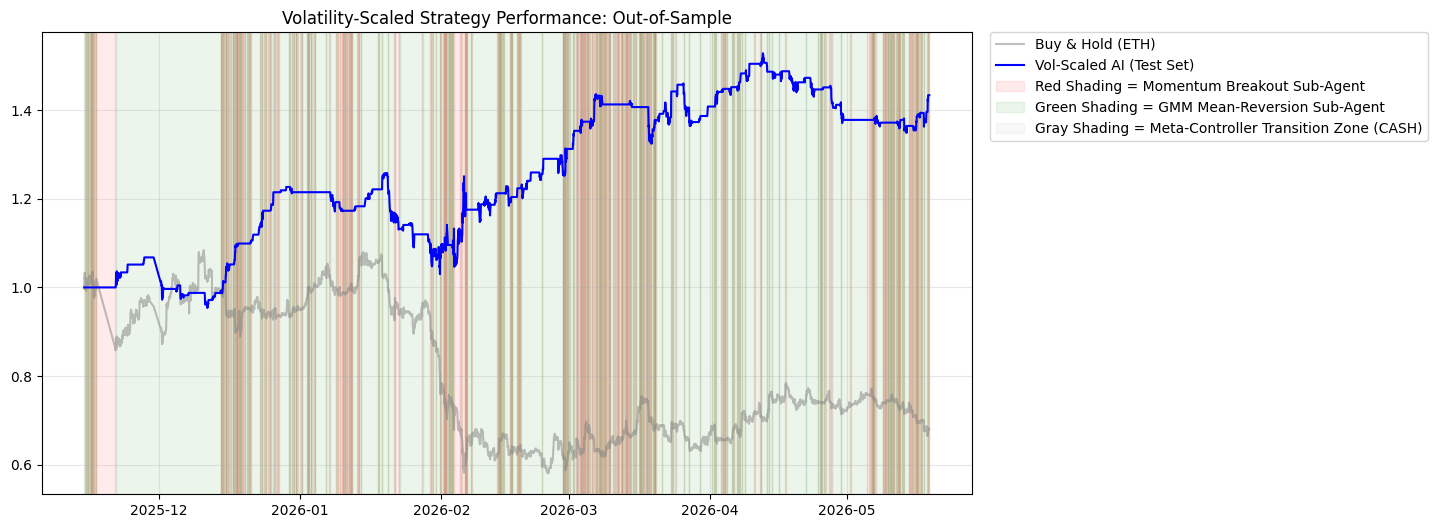
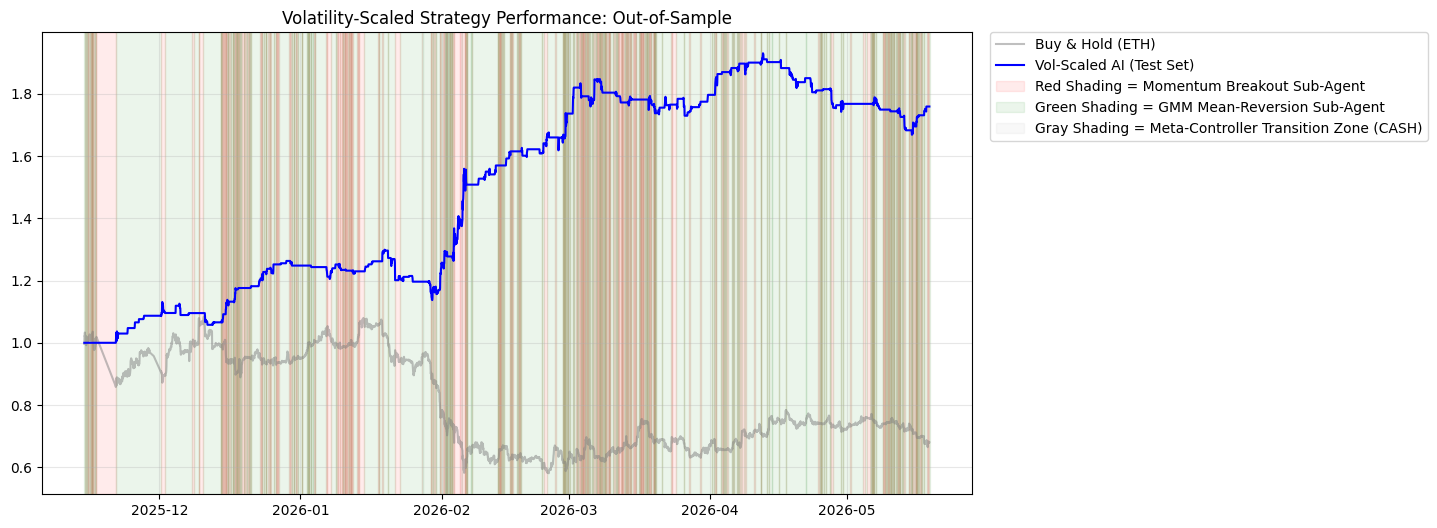
feat: implement ATR trailing stop-loss to clip tail-risk drawdowns

diff --git a/src/api.py b/src/api.py
@@ -79,6 +79,8 @@ class TradingState:
     def __init__(self):
         self.cooldown_until = datetime.min
         self.last_exit_time = datetime.min
+        self.extreme_price = 0.0
+        self.entry_atr = 0.0
 
 current_state = TradingState()
 
@@ -251,6 +253,9 @@ class LiveExecutionPayload(BaseModel):
     forecasted_vol: float
     prob_high_vol: float
     hurst: float
+    atr: float
+    high: float
+    low: float
     rolling_max: float
     rolling_min: float
     gmm_z_score: float
@@ -305,6 +310,7 @@ def execute_live_stream_trade(payload: LiveExecutionPayload):
         gmm_z_sell      = best_params.get('gmm_z_sell', 0.5)
         cooldown_hours  = best_params.get('cooldown_hours', 3)
         hurst_threshold = best_params.get('hurst_threshold', 0.45)
+        atr_sl_mult     = best_params.get('atr_sl_mult', 2.5)
 
         # Get current position and size from database
         db_path = get_db_path()
@@ -322,49 +328,84 @@ def execute_live_stream_trade(payload: LiveExecutionPayload):
         
         conn.close()
 
-        # Gate 3: Hierarchical Execution Routing Logic
-        rolling_mean = sum(payload.closes[-24:]) / 24
-        
-        # Volatility Shock Meta-Controller Bypass
-        vol_shock = payload.vol_24h > (payload.vol_168h * best_params.get('vol_shock_mult', 1.5))
+        # Check Trailing Stop
+        trailing_stop_hit = False
+        if current_position == "LONG":
+            if current_state.extreme_price == 0.0:
+                current_state.extreme_price = payload.current_price
+                current_state.entry_atr = payload.atr
+            current_state.extreme_price = max(current_state.extreme_price, payload.high)
+            if payload.current_price < (current_state.extreme_price - (current_state.entry_atr * atr_sl_mult)):
+                trailing_stop_hit = True
+                print(f"   [ATR TRAILING STOP TRIGGERED] Price {payload.current_price} < {current_state.extreme_price} - {current_state.entry_atr} * {atr_sl_mult}")
+        elif current_position == "SHORT":
+            if current_state.extreme_price == 0.0:
+                current_state.extreme_price = payload.current_price
+                current_state.entry_atr = payload.atr
+            current_state.extreme_price = min(current_state.extreme_price, payload.low)
+            if payload.current_price > (current_state.extreme_price + (current_state.entry_atr * atr_sl_mult)):
+                trailing_stop_hit = True
+                print(f"   [ATR TRAILING STOP TRIGGERED] Price {payload.current_price} > {current_state.extreme_price} + {current_state.entry_atr} * {atr_sl_mult}")
 
-        if payload.prob_high_vol > hmm_trend_min or vol_shock:
-            # Route to Breakout (Short Only)
-            if payload.current_price < payload.rolling_min: 
-                action = "SELL_SHORT"
-            elif payload.current_price > payload.rolling_max and current_position == "SHORT":
-                action = "CASH" # Stop out the short
-            else: 
-                action = "HOLDING" if current_position == "SHORT" else "CASH" if current_position == "LONG" else "FLAT"
-                
-        elif payload.prob_high_vol < hmm_chop_max and not vol_shock:
-            # Route to GMM (Long Only + Hurst Gate)
-            if (payload.gmm_z_score < gmm_z_buy or payload.gmm_cluster == 0) and (payload.hurst < hurst_threshold): 
-                action = "BUY"
-            elif payload.gmm_z_score > gmm_z_sell or payload.gmm_cluster == 2: 
-                action = "CASH" # Take profit on the long
-            else: 
-                action = "HOLDING" if current_position == "LONG" else "CASH" if current_position == "SHORT" else "FLAT"
-        else:
-            # Transition Zone - Force Cash
+        if trailing_stop_hit:
+            print("   [TRAILING STOP VETO] Forcing CASH action and resetting stop tracking.")
             action = "CASH"
-
-        # Apply Breakout Time-Based Exit for Short position
-        if current_position == "SHORT" and open_trade is not None:
-            entry_time = datetime.strptime(open_trade[2], "%Y-%m-%d %H:%M:%S")
-            raw_df_naive = raw_df.copy()
-            if raw_df_naive.index.tz is not None:
-                raw_df_naive.index = raw_df_naive.index.tz_localize(None)
-            closes_since_entry = raw_df_naive.loc[raw_df_naive.index >= entry_time, 'close']
-            # Convert series to list of floats and append current price
-            closes_list = [float(c) for c in closes_since_entry.values] + [float(payload.current_price)]
-            lowest_price = min(closes_list)
-            lowest_price_idx = closes_list.index(lowest_price)
-            hours_since_new_low = len(closes_list) - 1 - lowest_price_idx
+            current_state.extreme_price = 0.0
+            current_state.entry_atr = 0.0
+        else:
+            # Gate 3: Hierarchical Execution Routing Logic
+            rolling_mean = sum(payload.closes[-24:]) / 24
             
-            if hours_since_new_low >= 12:
-                print(f"   [BREAKOUT TIME-BASED EXIT] Short position open for {hours_since_new_low} hours without hitting a new low. Forcing CASH exit.")
+            # Volatility Shock Meta-Controller Bypass
+            vol_shock = payload.vol_24h > (payload.vol_168h * best_params.get('vol_shock_mult', 1.5))
+
+            if payload.prob_high_vol > hmm_trend_min or vol_shock:
+                # Route to Breakout (Short Only)
+                if payload.current_price < payload.rolling_min: 
+                    action = "SELL_SHORT"
+                elif payload.current_price > payload.rolling_max and current_position == "SHORT":
+                    action = "CASH" # Stop out the short
+                else: 
+                    action = "HOLDING" if current_position == "SHORT" else "CASH" if current_position == "LONG" else "FLAT"
+                    
+            elif payload.prob_high_vol < hmm_chop_max and not vol_shock:
+                # Route to GMM (Long Only + Hurst Gate)
+                if (payload.gmm_z_score < gmm_z_buy or payload.gmm_cluster == 0) and (payload.hurst < hurst_threshold): 
+                    action = "BUY"
+                elif payload.gmm_z_score > gmm_z_sell or payload.gmm_cluster == 2: 
+                    action = "CASH" # Take profit on the long
+                else: 
+                    action = "HOLDING" if current_position == "LONG" else "CASH" if current_position == "SHORT" else "FLAT"
+            else:
+                # Transition Zone - Force Cash
                 action = "CASH"
+
+            # Apply Breakout Time-Based Exit for Short position
+            if current_position == "SHORT" and open_trade is not None:
+                entry_time = datetime.strptime(open_trade[2], "%Y-%m-%d %H:%M:%S")
+                raw_df_naive = raw_df.copy()
+                if raw_df_naive.index.tz is not None:
+                    raw_df_naive.index = raw_df_naive.index.tz_localize(None)
+                closes_since_entry = raw_df_naive.loc[raw_df_naive.index >= entry_time, 'close']
+                # Convert series to list of floats and append current price
+                closes_list = [float(c) for c in closes_since_entry.values] + [float(payload.current_price)]
+                lowest_price = min(closes_list)
+                lowest_price_idx = closes_list.index(lowest_price)
+                hours_since_new_low = len(closes_list) - 1 - lowest_price_idx
+                
+                if hours_since_new_low >= 12:
+                    print(f"   [BREAKOUT TIME-BASED EXIT] Short position open for {hours_since_new_low} hours without hitting a new low. Forcing CASH exit.")
+                    action = "CASH"
+
+        # Update extreme price and entry atr state upon transition to non-flat trade or exit
+        if action in ["BUY", "SELL_SHORT"]:
+            current_state.extreme_price = payload.current_price
+            current_state.entry_atr = payload.atr
+            print(f"   [STOP STATE INITIALIZED] {action} entry price = {current_state.extreme_price}, ATR = {current_state.entry_atr}")
+        elif action == "CASH":
+            current_state.extreme_price = 0.0
+            current_state.entry_atr = 0.0
+            print("   [STOP STATE RESET] Position exited to CASH.")
 
         # Apply Cooldown Matrix for GMM entry
         if action == "BUY":

diff --git a/research/optuna_tuner.py b/research/optuna_tuner.py
@@ -196,6 +196,13 @@ def simulate_sharpe(test_df: pd.DataFrame, params: dict) -> float:
 
     bt['hurst'] = bt['close'].rolling(int(params.get('hurst_window', 48))).apply(calculate_hurst, raw=True)
 
+    # Calculate ATR (14 period)
+    high_low = bt['high'] - bt['low']
+    high_close = np.abs(bt['high'] - bt['close'].shift(1))
+    low_close = np.abs(bt['low'] - bt['close'].shift(1))
+    tr = pd.concat([high_low, high_close, low_close], axis=1).max(axis=1)
+    bt['atr'] = tr.rolling(14).mean()
+
     # 2. Hierarchical Routing
     bt['signal'] = np.nan
     
@@ -230,6 +237,9 @@ def simulate_sharpe(test_df: pd.DataFrame, params: dict) -> float:
     # 4. Friction Filter & Cooldown Matrix (Rebalance Threshold Loop)
     raw_targets = bt['target_size'].values
     closes = bt['close'].values
+    highs = bt['high'].values
+    lows = bt['low'].values
+    atrs = bt['atr'].fillna(0.0).values
     active_positions = np.zeros(len(raw_targets))
     current_pos = 0.0
     rebalance_thresh = params['rebalance_threshold']
@@ -241,8 +251,29 @@ def simulate_sharpe(test_df: pd.DataFrame, params: dict) -> float:
     lowest_short_price = float('inf')
     hours_since_new_low = 0
     
+    atr_mult = params.get('atr_sl_mult', 2.5)
+    extreme_price = 0.0
+    entry_atr = 0.0
+    
     for i in range(len(raw_targets)):
         target = raw_targets[i]
+        current_high = highs[i]
+        current_low = lows[i]
+        current_close = closes[i]
+        current_atr = atrs[i]
+        
+        # Trailing stop-loss logic
+        if current_pos == 0 and target != 0:
+            extreme_price = current_close
+            entry_atr = current_atr
+        elif current_pos > 0:
+            extreme_price = max(extreme_price, current_high)
+            if current_close < (extreme_price - (entry_atr * atr_mult)):
+                target = 0.0
+        elif current_pos < 0:
+            extreme_price = min(extreme_price, current_low)
+            if current_close > (extreme_price + (entry_atr * atr_mult)):
+                target = 0.0
         
         # Breakout Short-Exit Logic (Time-Based / New Low Exit)
         if current_pos < 0:
@@ -347,6 +378,7 @@ def objective(trial, test_df):
         'hurst_threshold': trial.suggest_float('hurst_threshold', 0.35, 0.55),
         'hurst_window': trial.suggest_int('hurst_window', 8, 24),
         'cooldown_hours': trial.suggest_int('cooldown_hours', 4, 24),
+        'atr_sl_mult': trial.suggest_float('atr_sl_mult', 1.5, 4.0),
         'optimizer_fee_pct': OPTIMIZER_FEE_PCT,
     }
 
@@ -365,6 +397,7 @@ def write_best_params(study, current_params):
     current_params['hurst_threshold']     = float(best['hurst_threshold'])
     current_params['hurst_window']        = int(best['hurst_window'])
     current_params['cooldown_hours']      = int(best['cooldown_hours'])
+    current_params['atr_sl_mult']         = float(best['atr_sl_mult'])
 
     with open(PARAMS_PATH, 'w') as f:
         json.dump(current_params, f, indent=2)

diff --git a/src/backtest.py b/src/backtest.py
@@ -159,6 +159,7 @@ def run_backtest(df, target_volatility=TARGET_VOLATILITY):
     hurst_threshold = best_params.get('hurst_threshold', 0.45)
     hurst_window    = best_params.get('hurst_window', 48)
     cooldown_hours  = best_params.get('cooldown_hours', 11)
+    atr_sl_mult     = best_params.get('atr_sl_mult', 2.5)
 
     # Calculate HMM Probability on full df before splitting to prevent NaNs
     df = df.copy()
@@ -224,6 +225,13 @@ def run_backtest(df, target_volatility=TARGET_VOLATILITY):
     # Calculate Hurst Exponent
     test_df['hurst'] = test_df['close'].rolling(int(hurst_window)).apply(get_hurst_exponent, raw=True)
 
+    # Calculate ATR (14 period)
+    high_low = test_df['high'] - test_df['low']
+    high_close = np.abs(test_df['high'] - test_df['close'].shift(1))
+    low_close = np.abs(test_df['low'] - test_df['close'].shift(1))
+    tr = pd.concat([high_low, high_close, low_close], axis=1).max(axis=1)
+    test_df['atr'] = tr.rolling(14).mean()
+
     # Bi-directional HMM/GMM Hierarchical Logic
     test_df['signal'] = np.nan
     
@@ -264,6 +272,9 @@ def run_backtest(df, target_volatility=TARGET_VOLATILITY):
     # 4. Friction Filter & Cooldown Matrix (Rebalance Threshold Loop)
     raw_targets = test_df['target_size'].values
     closes = test_df['close'].values
+    highs = test_df['high'].values
+    lows = test_df['low'].values
+    atrs = test_df['atr'].fillna(0.0).values
     active_positions = np.zeros(len(raw_targets))
     current_pos = 0.0
     
@@ -274,8 +285,28 @@ def run_backtest(df, target_volatility=TARGET_VOLATILITY):
     lowest_short_price = float('inf')
     hours_since_new_low = 0
     
+    extreme_price = 0.0
+    entry_atr = 0.0
+    
     for i in range(len(raw_targets)):
         target = raw_targets[i]
+        current_high = highs[i]
+        current_low = lows[i]
+        current_close = closes[i]
+        current_atr = atrs[i]
+        
+        # Trailing stop-loss logic
+        if current_pos == 0 and target != 0:
+            extreme_price = current_close
+            entry_atr = current_atr
+        elif current_pos > 0:
+            extreme_price = max(extreme_price, current_high)
+            if current_close < (extreme_price - (entry_atr * atr_sl_mult)):
+                target = 0.0
+        elif current_pos < 0:
+            extreme_price = min(extreme_price, current_low)
+            if current_close > (extreme_price + (entry_atr * atr_sl_mult)):
+                target = 0.0
         
         # Breakout Short-Exit Logic (Time-Based / New Low Exit)
         if current_pos < 0:

diff --git a/src/stream_engine.py b/src/stream_engine.py
@@ -145,6 +145,31 @@ async def stream_ethereum_data():
                                 
                             volatility_forecast = target_scaler.inverse_transform(output_scaled.cpu().numpy())[0][0]
                             
+                            # Fetch 15 candles to calculate standard 14-period ATR and hourly extremes
+                            atr_url = "https://api.binance.us/api/v3/klines?symbol=ETHUSDT&interval=1h&limit=15"
+                            req_atr = urllib.request.Request(atr_url, headers={'User-Agent': 'Mozilla/5.0'})
+                            try:
+                                with urllib.request.urlopen(req_atr) as resp_atr:
+                                    kline_atr = json.loads(resp_atr.read().decode())
+                                    closes_atr = [float(k[4]) for k in kline_atr]
+                                    highs_atr = [float(k[2]) for k in kline_atr]
+                                    lows_atr = [float(k[3]) for k in kline_atr]
+                                    
+                                    trs = []
+                                    for idx in range(1, len(kline_atr)):
+                                        hl = highs_atr[idx] - lows_atr[idx]
+                                        hc = abs(highs_atr[idx] - closes_atr[idx-1])
+                                        lc = abs(lows_atr[idx] - closes_atr[idx-1])
+                                        trs.append(max(hl, hc, lc))
+                                    current_atr = float(np.mean(trs))
+                                    latest_high = highs_atr[-1]
+                                    latest_low = lows_atr[-1]
+                            except Exception as e:
+                                print(f"[!] Error calculating live ATR: {e}")
+                                current_atr = 0.0
+                                latest_high = float(current_price)
+                                latest_low = float(current_price)
+
                             breakout_window = best_params.get('breakout_window', 48)
                             hurst_window = best_params.get('hurst_window', 48)
                             rolling_max = float(max(closes[-breakout_window-1:-1]))
@@ -158,7 +183,7 @@ async def stream_ethereum_data():
                             print(f"🚨 HOURLY REGIME UPDATE 🚨")
                             print(f"   Real-Time Hourly Close: ${current_price:,.2f}")
                             print(f"   LSTM Volatility Forecast (24h): {volatility_forecast:.4%}")
-                            print(f"   HMM High-Vol Prob: {prob_high_vol:.4f} | Hurst: {current_hurst:.4f}")
+                            print(f"   HMM High-Vol Prob: {prob_high_vol:.4f} | Hurst: {current_hurst:.4f} | ATR: {current_atr:.4f}")
                             print(f"   GMM Z-Score: {gmm_z_score:.4f} | Cluster: {gmm_cluster}")
                             print(f"   Vol 24h: {vol_24h:.6f} | Vol 168h: {vol_168h:.6f}")
                             print(f"   Rolling Max ({breakout_window}h): ${rolling_max:,.2f}")
@@ -173,6 +198,9 @@ async def stream_ethereum_data():
                                     "forecasted_vol": float(volatility_forecast),
                                     "prob_high_vol": float(prob_high_vol),
                                     "hurst": float(current_hurst),
+                                    "atr": float(current_atr),
+                                    "high": float(latest_high),
+                                    "low": float(latest_low),
                                     "rolling_max": float(rolling_max),
                                     "rolling_min": float(rolling_min),
                                     "gmm_z_score": float(gmm_z_score),